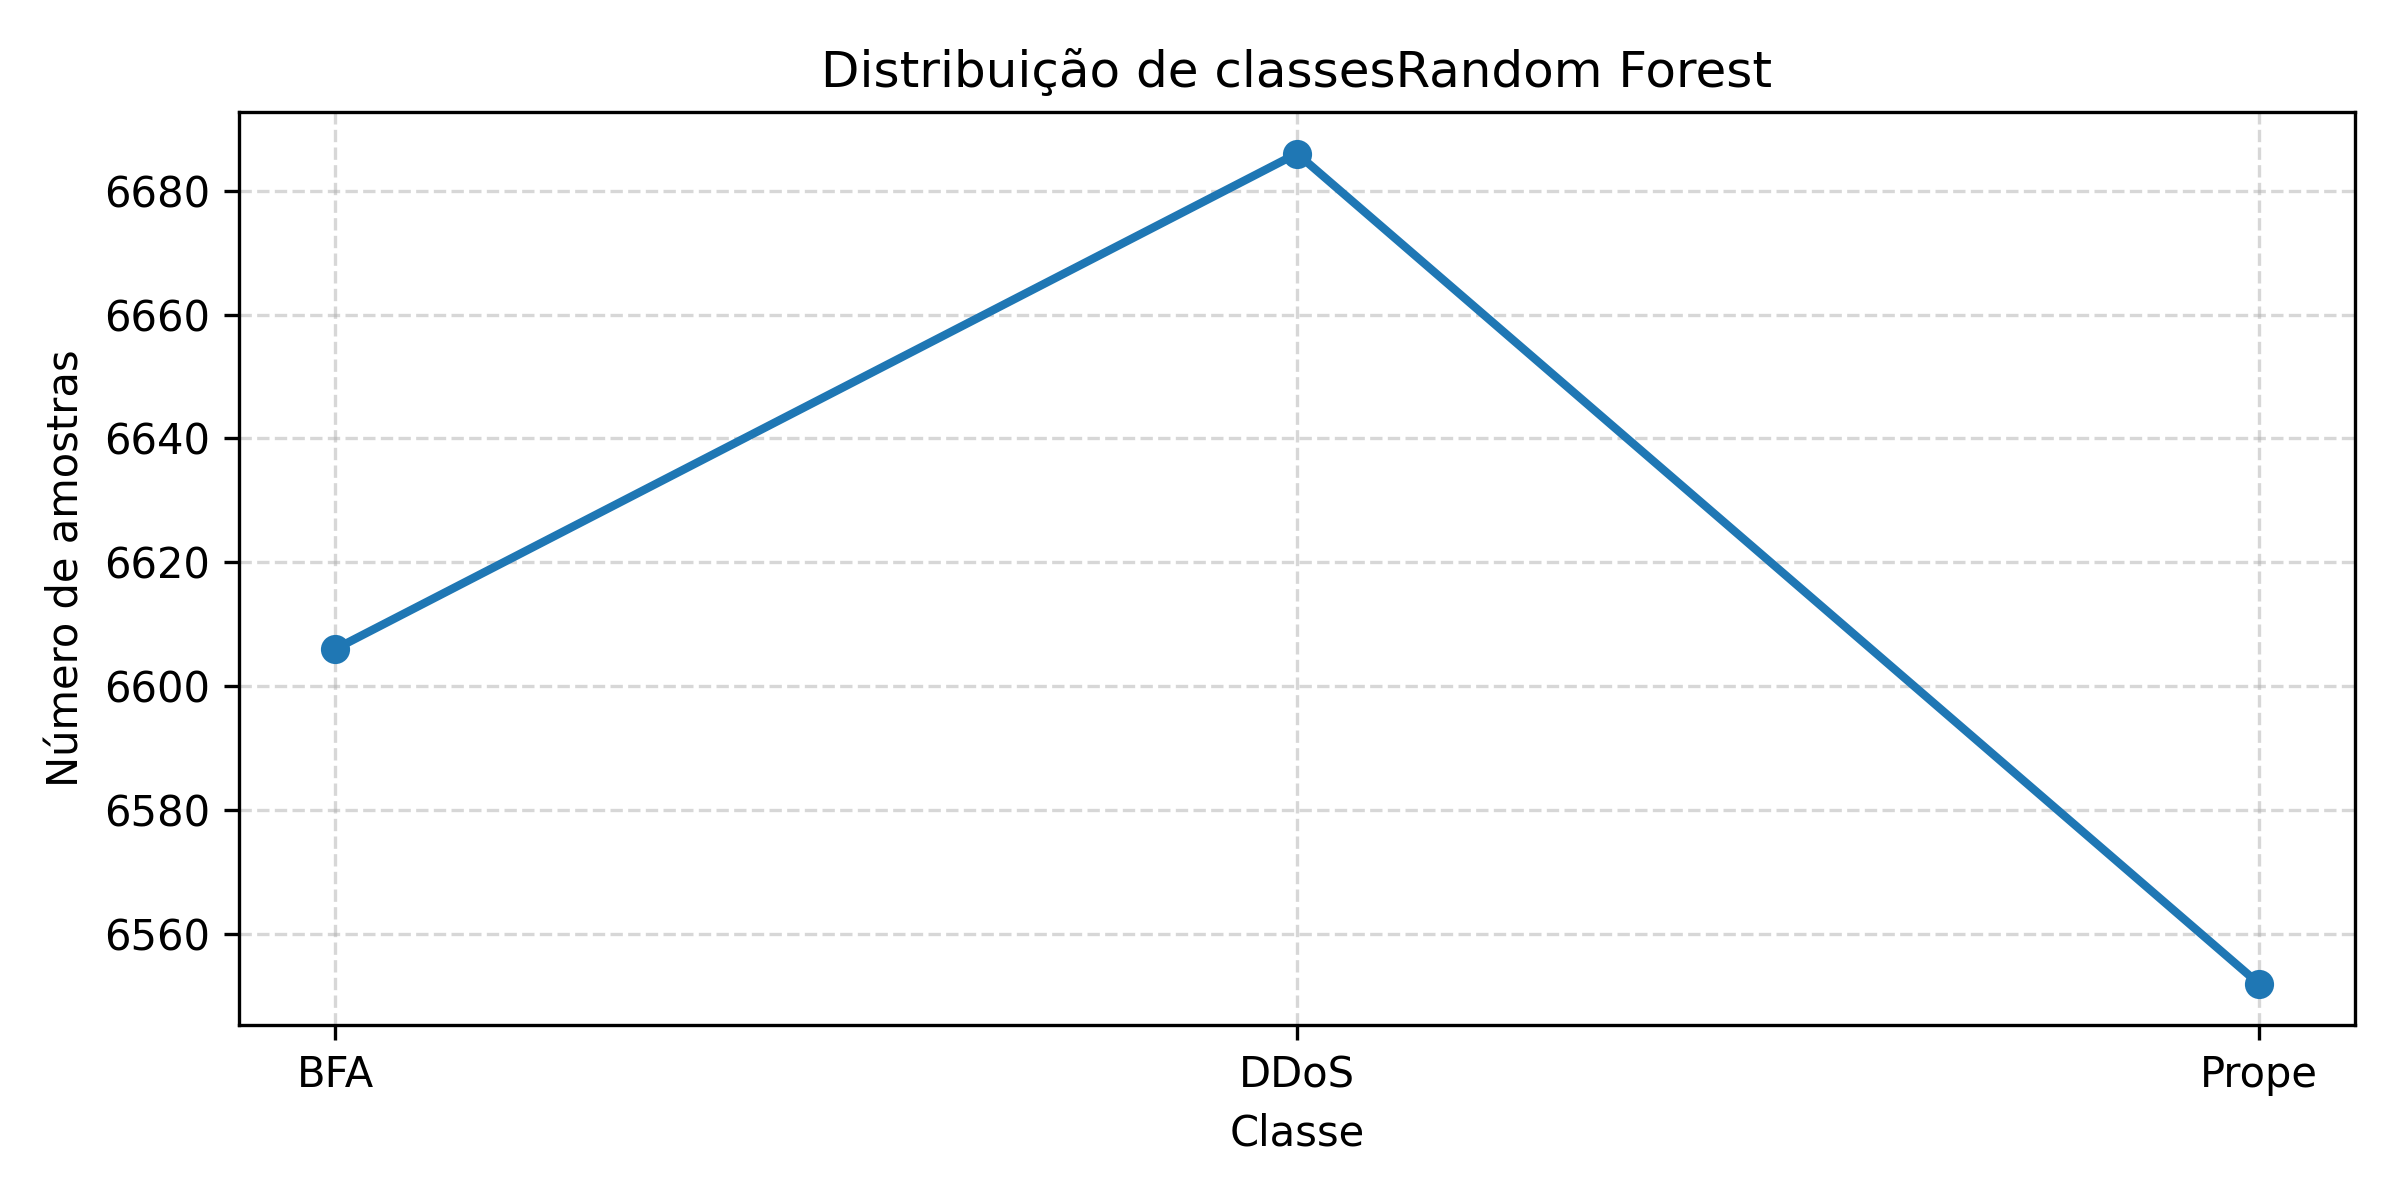
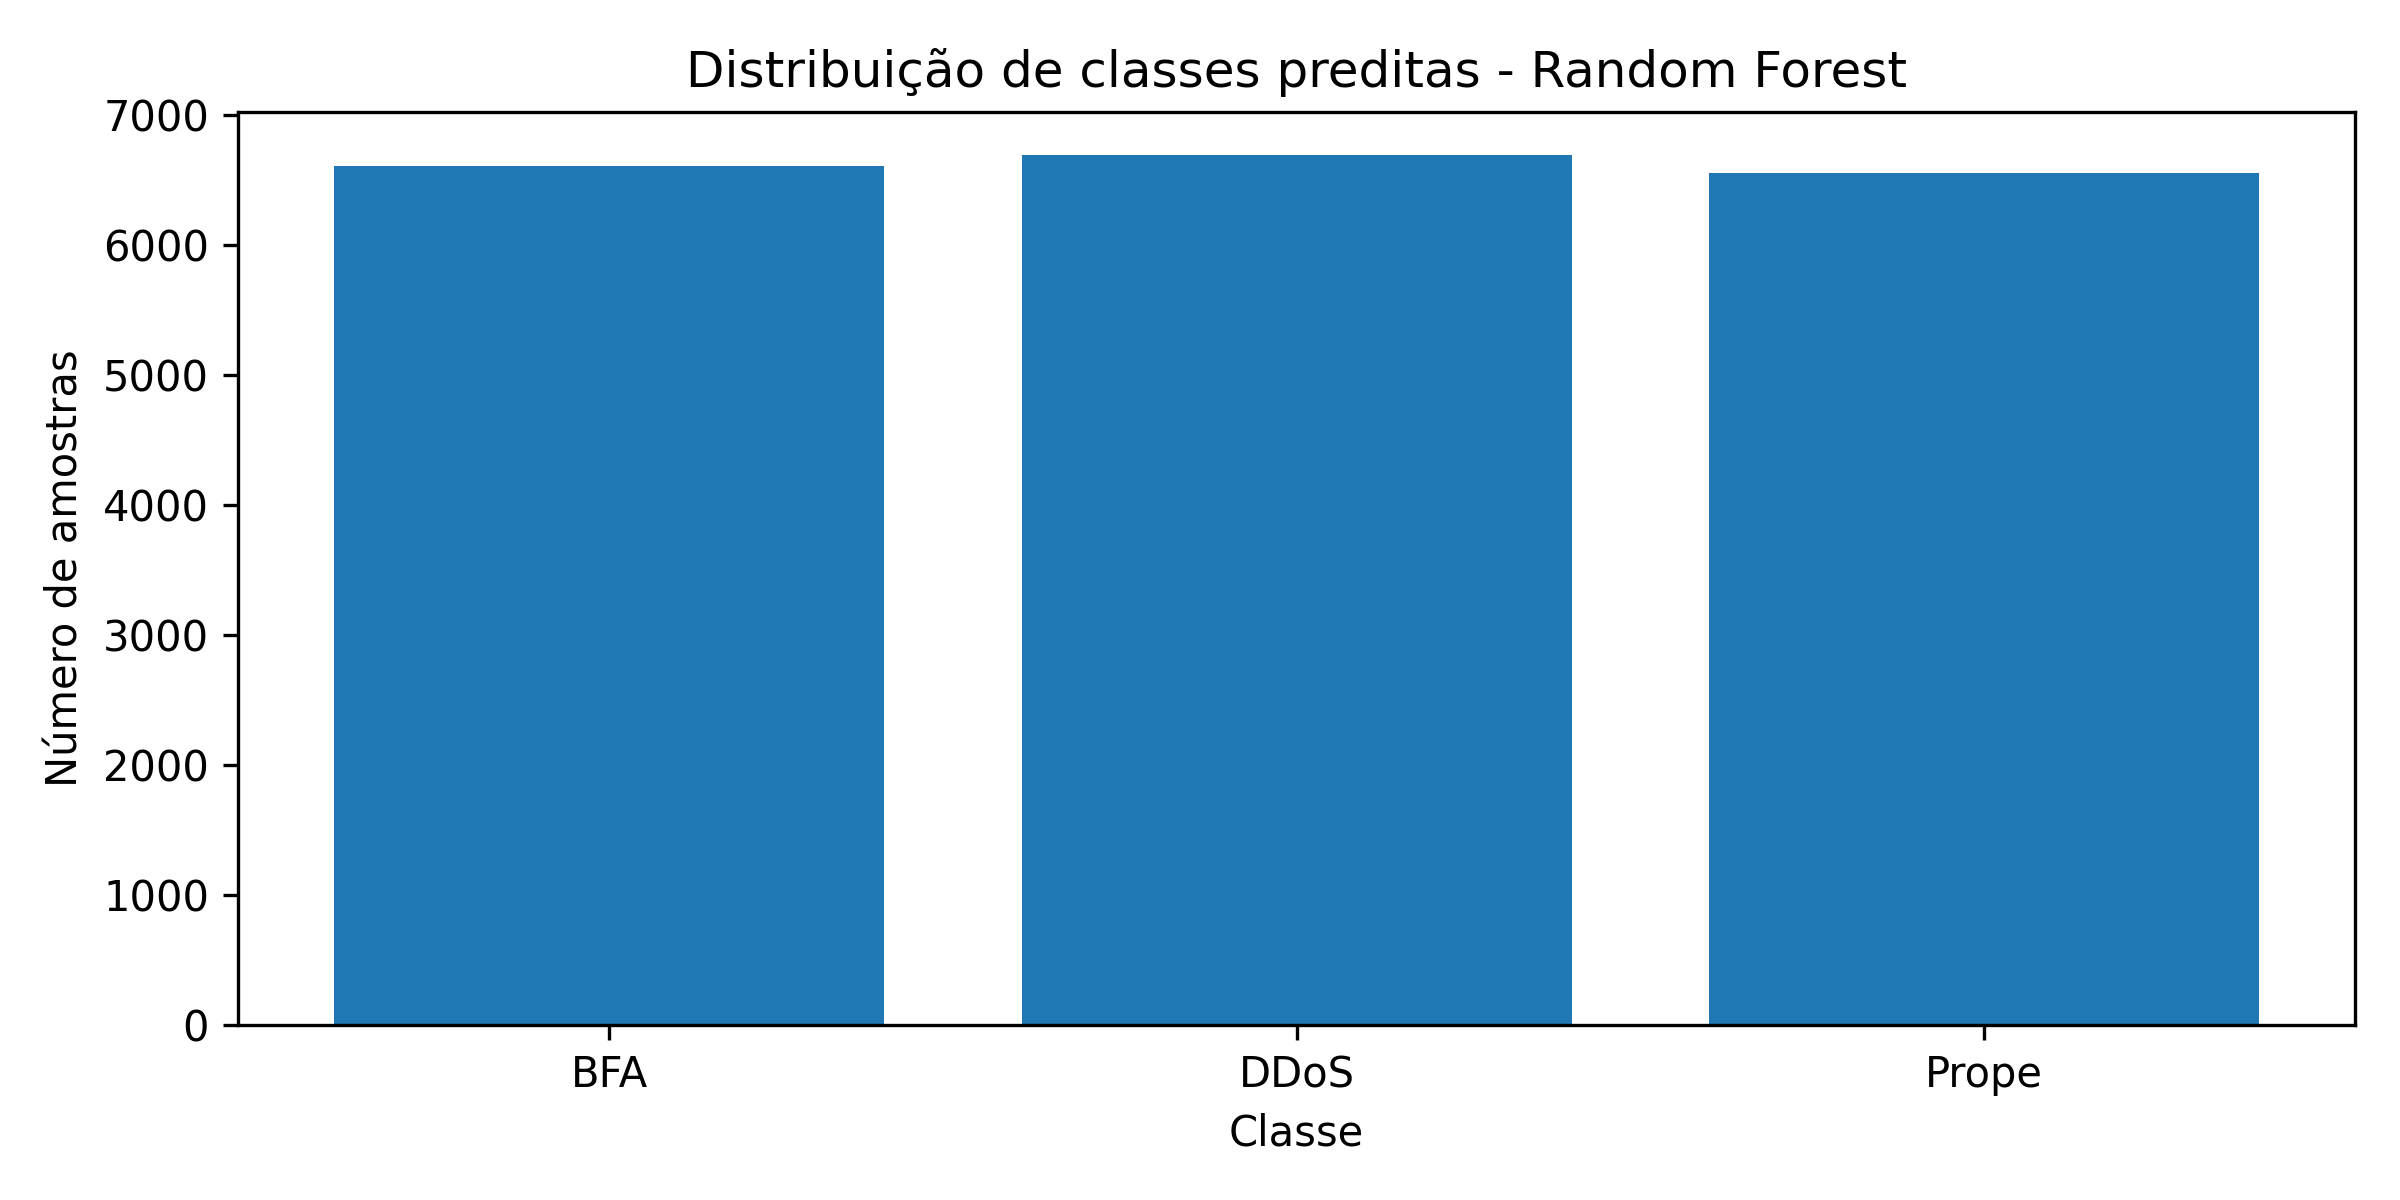
Changed graph type and added new graph comparing all models behavior in class prediction

diff --git a/ids-wisard/experiment.py b/ids-wisard/experiment.py
@@ -42,13 +42,12 @@ def save_prediction_distribution_plot(y_pred_enc, label_encoder, model_name,
     counts = pd.Series(labels).value_counts().sort_index()
 
     plt.figure(figsize=(8, 4))
-    plt.plot(counts.index, counts.values, marker='o', linestyle='-', linewidth=2)
-
-    plt.title(f"Distribuição de classes{model_name}")
+    plt.bar(counts.index, counts.values)
+    plt.title(f"Distribuição de classes preditas - {model_name}")
     plt.xlabel("Classe")
     plt.ylabel("Número de amostras")
-    plt.grid(True, linestyle='--', alpha=0.5)
     plt.tight_layout()
+
 
     out_path = os.path.join(output_dir, f"{model_name.lower().replace(' ', '')}preddistribution.png")
     plt.savefig(out_path, dpi=300)
@@ -226,6 +225,56 @@ def save_class_split_predictions(X_test_df, y_test_enc, y_pred_enc, label_encode
         df_label.to_csv(out_path, index=False)
         print(f"CSV {model_name} = {pred_label}: {out_path}")
 
+def save_combined_prediction_histogram(
+    y_pred_wisard,
+    y_pred_rf,
+    y_pred_knn,
+    y_pred_svm,
+    label_encoder,
+    output_dir="results/plots"):
+
+    import os
+    import pandas as pd
+    import matplotlib.pyplot as plt
+
+    os.makedirs(output_dir, exist_ok=True)
+
+    labels_w = pd.Series(label_encoder.inverse_transform(y_pred_wisard))
+    labels_rf = pd.Series(label_encoder.inverse_transform(y_pred_rf))
+    labels_knn = pd.Series(label_encoder.inverse_transform(y_pred_knn))
+    labels_svm = pd.Series(label_encoder.inverse_transform(y_pred_svm))
+
+    classes = sorted(label_encoder.classes_)
+
+    counts_w = labels_w.value_counts().reindex(classes, fill_value=0)
+    counts_rf = labels_rf.value_counts().reindex(classes, fill_value=0)
+    counts_knn = labels_knn.value_counts().reindex(classes, fill_value=0)
+    counts_svm = labels_svm.value_counts().reindex(classes, fill_value=0)
+
+    x = range(len(classes))
+    width = 0.2
+
+    plt.figure(figsize=(10, 5))
+
+    plt.bar([i - 1.5*width for i in x], counts_w, width=width, color="#4C72B0", label="WiSARD")
+    plt.bar([i - 0.5*width for i in x], counts_rf, width=width, color="#9DB4E0", label="Random Forest")
+    plt.bar([i + 0.5*width for i in x], counts_knn, width=width, color="#55A868", label="KNN")
+    plt.bar([i + 1.5*width for i in x], counts_svm, width=width, color="#A8D5BA", label="SVM")
+
+    plt.xticks(x, classes)
+    plt.xlabel("Classe")
+    plt.ylabel("Número de amostras")
+    plt.title("Distribuição comparativa das classes preditas")
+    plt.legend()
+    plt.tight_layout()
+
+    out_path = os.path.join(output_dir, "combinedpreddistribution.png")
+    plt.savefig(out_path, dpi=300)
+    plt.close()
+
+    print(f"Histograma comparativo salvo em: {out_path}")
+
+
 def main():
     print("Carregamento do dataset IoT-SDN IDS")
     X, y = load_dataset()
@@ -372,6 +421,14 @@ def main():
 
     save_class_split_predictions(X_test_df, y_test, y_pred_knn,
                                 label_encoder, "KNN")
+
+    save_combined_prediction_histogram(
+    best_y_pred_enc,
+    y_pred_rf,
+    y_pred_knn,
+    y_pred_svm,
+    label_encoder
+    )
 
 if __name__ == "__main__":
     main()
